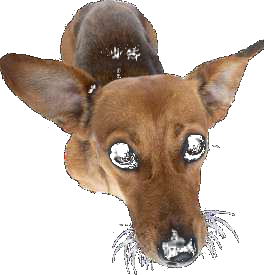
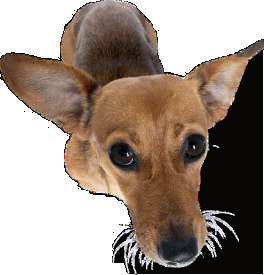
Fix chihuahua eyes and lock portrait slots for braindump
Flood-fill the dog sticker so the pupils stay solid. Home and About share the new professional photo. The desk shot moves into the braindump polaroid, and the large center frame is static/brain/center.jpg for the leopard-dress photo.

diff --git a/static/site.css b/static/site.css
@@ -859,10 +859,10 @@ body:hover .cursor-glow { opacity: 1; }
 .brain-emoji { display: block; font-size: 2rem; margin-top: 0.35rem; }
 .brain-about-row {
   display: grid;
-  grid-template-columns: 1.1fr 0.9fr;
-  gap: 2rem;
+  grid-template-columns: 0.85fr 1.15fr;
+  gap: 1.5rem;
   align-items: end;
-  margin-top: 3rem;
+  margin-top: 2.25rem;
   position: relative;
   z-index: 3;
 }
@@ -875,17 +875,20 @@ body:hover .cursor-glow { opacity: 1; }
 }
 .brain-photo-wrap {
   position: relative;
-  justify-self: end;
-  width: min(340px, 100%);
+  justify-self: center;
+  width: min(560px, 100%);
   background: #7edc4a;
   padding: 0.7rem 0.7rem 1.6rem;
-  transform: rotate(3deg);
+  transform: rotate(2deg);
   box-shadow: 10px 14px 0 rgba(26, 8, 16, 0.18);
 }
 .brain-photo {
   width: 100%;
   display: block;
   background: #7edc4a;
+  aspect-ratio: 3/4;
+  object-fit: cover;
+  object-position: center top;
 }
 .brain-photo-wrap .sticker.fragile-tag {
   position: absolute; top: -18px; right: -22px; width: 108px;
@@ -893,12 +896,12 @@ body:hover .cursor-glow { opacity: 1; }
 }
 .polaroid {
   background: #fffaf2;
-  padding: 0.45rem 0.45rem 1.4rem;
+  padding: 0.45rem 0.45rem 1.6rem;
   box-shadow: 6px 10px 0 rgba(0,0,0,0.12);
   transform: rotate(-6deg);
-  width: 160px;
+  width: 176px;
 }
-.polaroid img { width: 100%; display: block; height: 150px; object-fit: cover; }
+.polaroid img { width: 100%; display: block; height: 190px; object-fit: cover; object-position: center top; }
 .sticker {
   position: absolute; object-fit: contain; user-select: none; pointer-events: none;
   filter: drop-shadow(0 8px 16px rgba(0, 0, 0, 0.18));

diff --git a/portfolio.py b/portfolio.py
@@ -61,7 +61,7 @@ CONTENT = {
         "attr": "John A. Shedd",
     },
     "hero": {
-        "portrait": "/static/hero.jpg",
+        "portrait": "/static/about.jpg",
         "scrolling_words": ["KIA", "BUILDER"],
         "intro": (
             "I do a little bit of everything, designing, writing, organizing chaos, "
@@ -772,7 +772,7 @@ HOME_PAGE = r"""{% extends "base.html" %}
   <div class="hero-visual reveal-scale visible" data-delay="0.15">
     <div class="hero-circle" aria-hidden="true"></div>
     <div class="hero-portrait-wrap" data-tilt>
-      <img src="{{ hero.portrait }}" alt="{{ meta.name }} in a black blazer at a desk, looking up at the camera" width="800" height="1082" decoding="async">
+      <img src="{{ hero.portrait }}" alt="{{ meta.name }} in a black blazer at DFW Startup Week" width="800" height="1082" decoding="async">
       <span class="hero-badge">{{ meta.title }}</span>
     </div>
   </div>
@@ -1180,8 +1180,8 @@ BRAIN_PAGE = r"""{% extends "base.html" %}
     <img class="sticker" src="/static/brain/clip.png" alt="" style="width:58px;top:18%;left:28%;transform:rotate(12deg);">
     <img class="sticker" src="/static/brain/notebook.png" alt="" style="width:72px;bottom:8%;left:8%;transform:rotate(8deg);">
     <img class="sticker" src="/static/brain/star.png" alt="" style="width:48px;top:28%;right:28%;transform:rotate(18deg);">
-    <figure class="polaroid sticker" style="top:22%;left:8%;width:148px;">
-      <img src="/static/casual-gallery.jpg" alt="{{ meta.name }} in a black blazer, photographed from above at a desk">
+    <figure class="polaroid sticker" style="top:18%;left:6%;width:168px;">
+      <img src="/static/brain/polaroid-me.jpg" alt="{{ meta.name }} at a desk, looking up at the camera">
     </figure>
     <div class="brain-about-row">
       <div>
@@ -1189,7 +1189,7 @@ BRAIN_PAGE = r"""{% extends "base.html" %}
         <p class="brain-copy reveal">{{ brain.intro }}</p>
       </div>
       <div class="brain-photo-wrap reveal-scale">
-        <img class="brain-photo" src="/static/whoami-cutout.png" alt="{{ meta.name }} in a pink striped sweater, pink sunglasses, and patchwork jeans, crouched with her chin in her hand">
+        <img class="brain-photo" src="/static/brain/center.jpg" alt="{{ meta.name }} in a leopard-print dress, shrugging in a gallery">
         <img class="sticker fragile-tag" src="/static/brain/fragile.png" alt="">
       </div>
     </div>

diff --git a/test_site.py b/test_site.py
@@ -67,8 +67,8 @@ def test_routes() -> None:
     assert "BRAINDUMP" in brain
     assert "welcome to my" in brain
     assert "my braindump" in brain.lower()
-    assert "/static/whoami-cutout.png" in brain
-    assert "/static/casual-gallery.jpg" in brain
+    assert "/static/brain/center.jpg" in brain
+    assert "/static/brain/polaroid-me.jpg" in brain
     work = client.get("/work/microbit-automizer").get_data(as_text=True)
     assert "AUTOMAZER" in work
     assert "lambjam" in client.get("/work").get_data(as_text=True) or "Finch" in work
